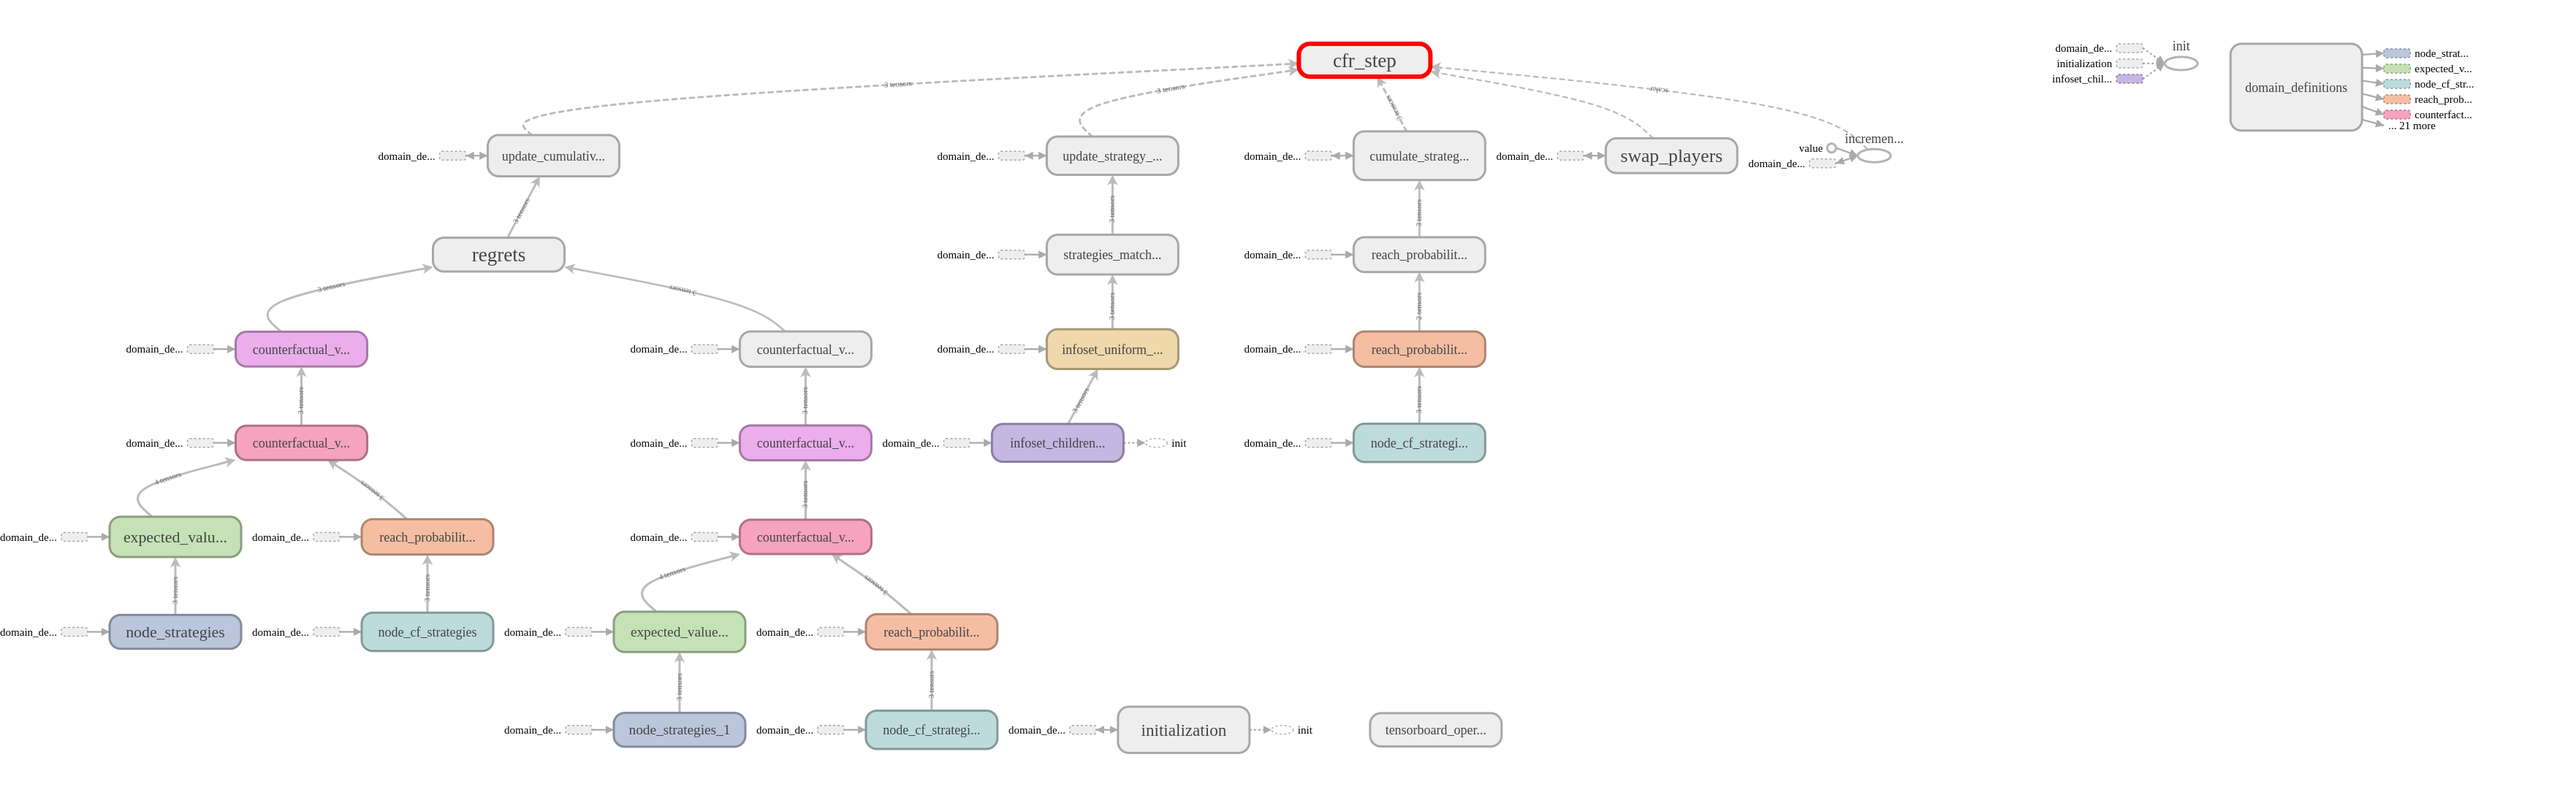
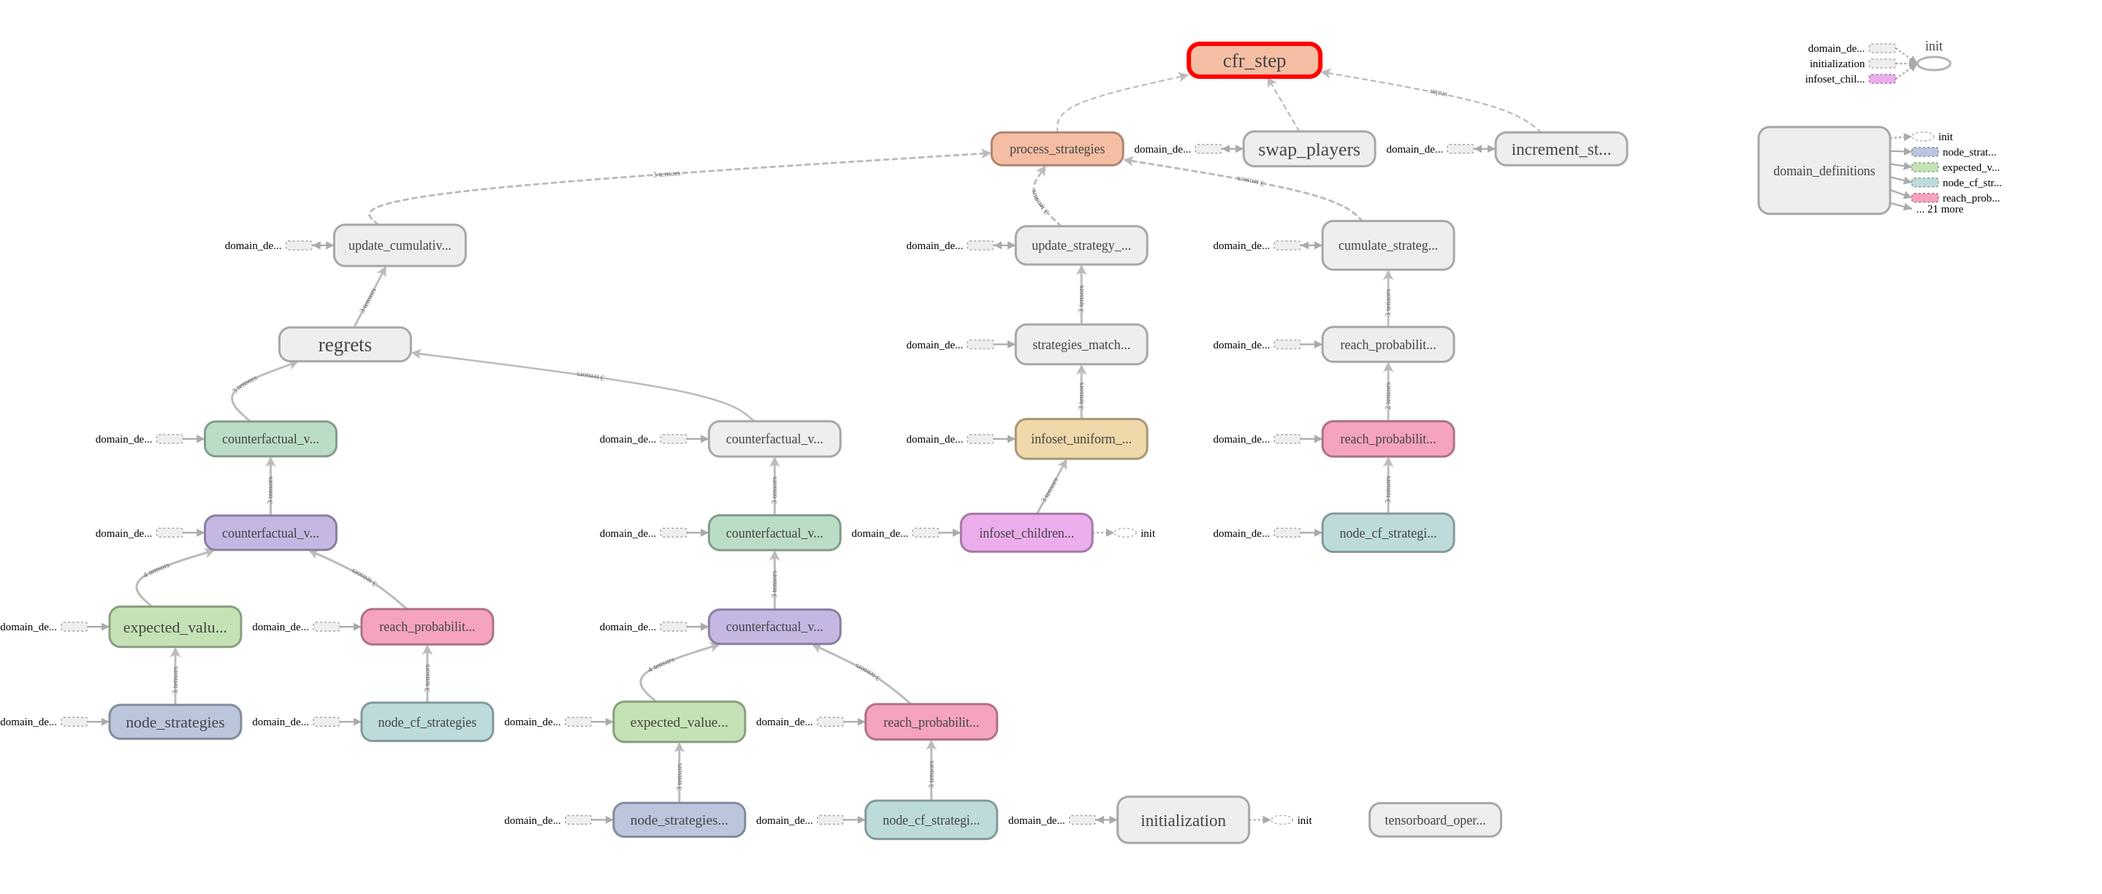
Group `ops_process_strategies` into a `tf.group`

diff --git a/src/algorithms/tensorcfr_domain01/update_strategies.py b/src/algorithms/tensorcfr_domain01/update_strategies.py
@@ -80,7 +80,7 @@ def process_strategies(acting_player=current_updating_player, opponent=current_o
 			for sublist in map(list, zip(update_regrets_ops, update_ops, cumulate_ops))
 			for op in sublist
 		]
-		return ops_process_strategies
+		return tf.group(ops_process_strategies, name="process_strategies")
 
 
 def get_average_infoset_strategies():

diff --git a/src/algorithms/tensorcfr_domain01/cfr_step.py b/src/algorithms/tensorcfr_domain01/cfr_step.py
@@ -34,7 +34,6 @@ def do_cfr_step():
 if __name__ == '__main__':
 	total_steps = 4
 	infoset_acting_players_ = get_infoset_acting_players()
-	process_strategies_ops = process_strategies()
 	cfr_step_op = do_cfr_step()
 	with tf.Session() as sess:
 		sess.run(tf.global_variables_initializer())
